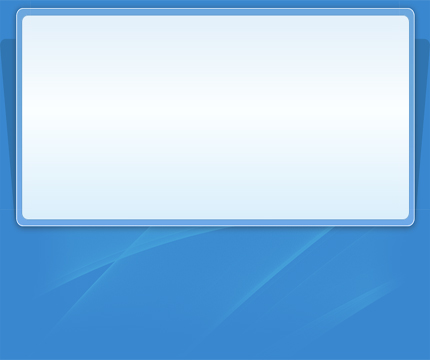
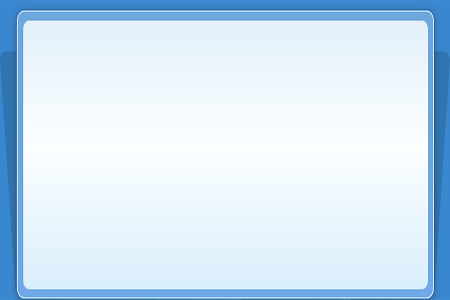
fix  bug

diff --git a/css/cas.css b/css/cas.css
@@ -67,14 +67,14 @@ body { font-family: Verdana, sans-serif; font-size: 11px; line-height: 1.4em; }
 #cas #header #app-name { background: #210F7A; color: white; padding: 1.4em 1.4em; font-size: 2em; font-weight: normal; }
 
 /* content */
-#cas .titles{height:auto;text-indent:20px; background:#3987cf url(../images/login_bg.jpg) no-repeat center 30px; border:1px solid #cdcdcd;}
+#cas .titles{height:400px;text-indent:20px; background:#3987cf url(../images/login_bg.jpg) no-repeat center 30px; border:1px solid #cdcdcd;}
 #cas #content { padding: 10px; overflow: hidden; }
 #cas #content #msg { padding: 20px; margin-bottom: 10px;} 
 #cas #content #msg h2 { font-size: 1.4em; margin-bottom: 0.5em; }
 #cas #content #msg.errors { border: 1px dotted #BB0000; color: #BB0000; padding-left: 100px; background: url(../images/error.gif) no-repeat 20px center; }
 #cas #content #msg.success { border: 1px dotted #390; color: #390; padding-left: 100px; background: url(../images/confirm.gif) no-repeat 20px center; }
 #cas #content #msg.info { border: 1px dotted #008; color: #008; padding-left: 100px; background: url(../images/info.gif) no-repeat 20px center; }
-#cas #content #login { width: 390px; margin:40px auto; }
+#cas #content #login { width: 390px; margin:50px auto; }
 #cas #content #login #fm1 { padding: 20px; }
 #cas #content #login #fm1 h2 { font-size: 1.4em; font-weight: normal; padding-bottom: 10px; margin-bottom: 10px; border-bottom: 1px solid #DDDDDD; }
 #cas #content #login #fm1 .row { margin:10px 0px; }
